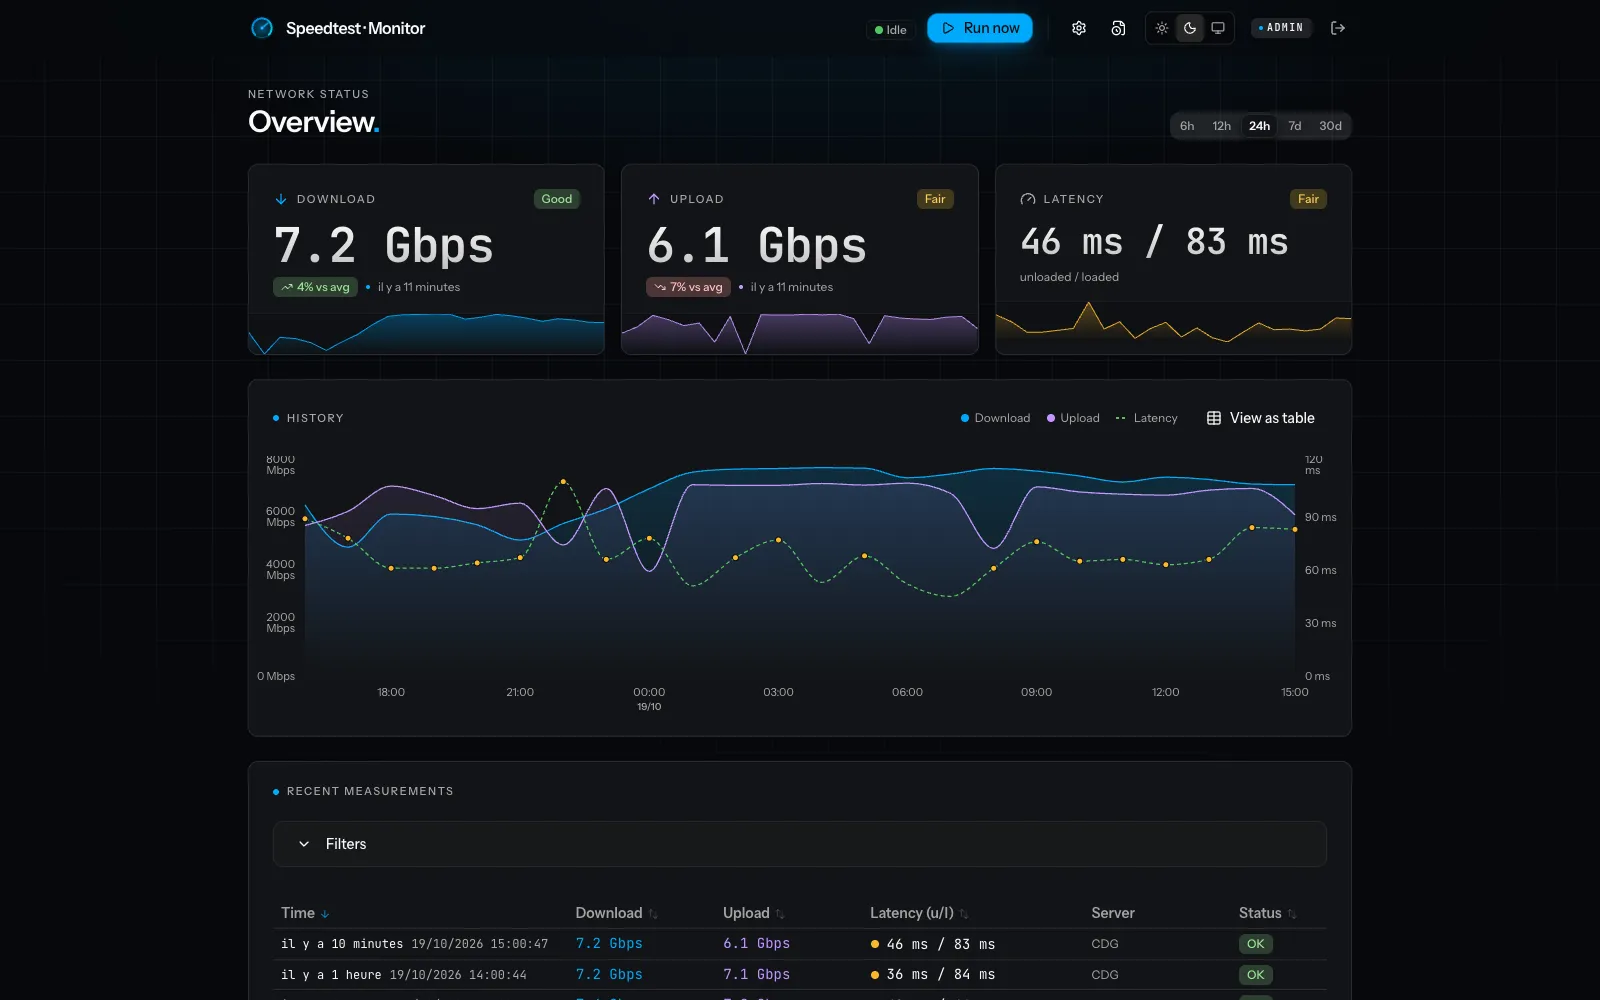
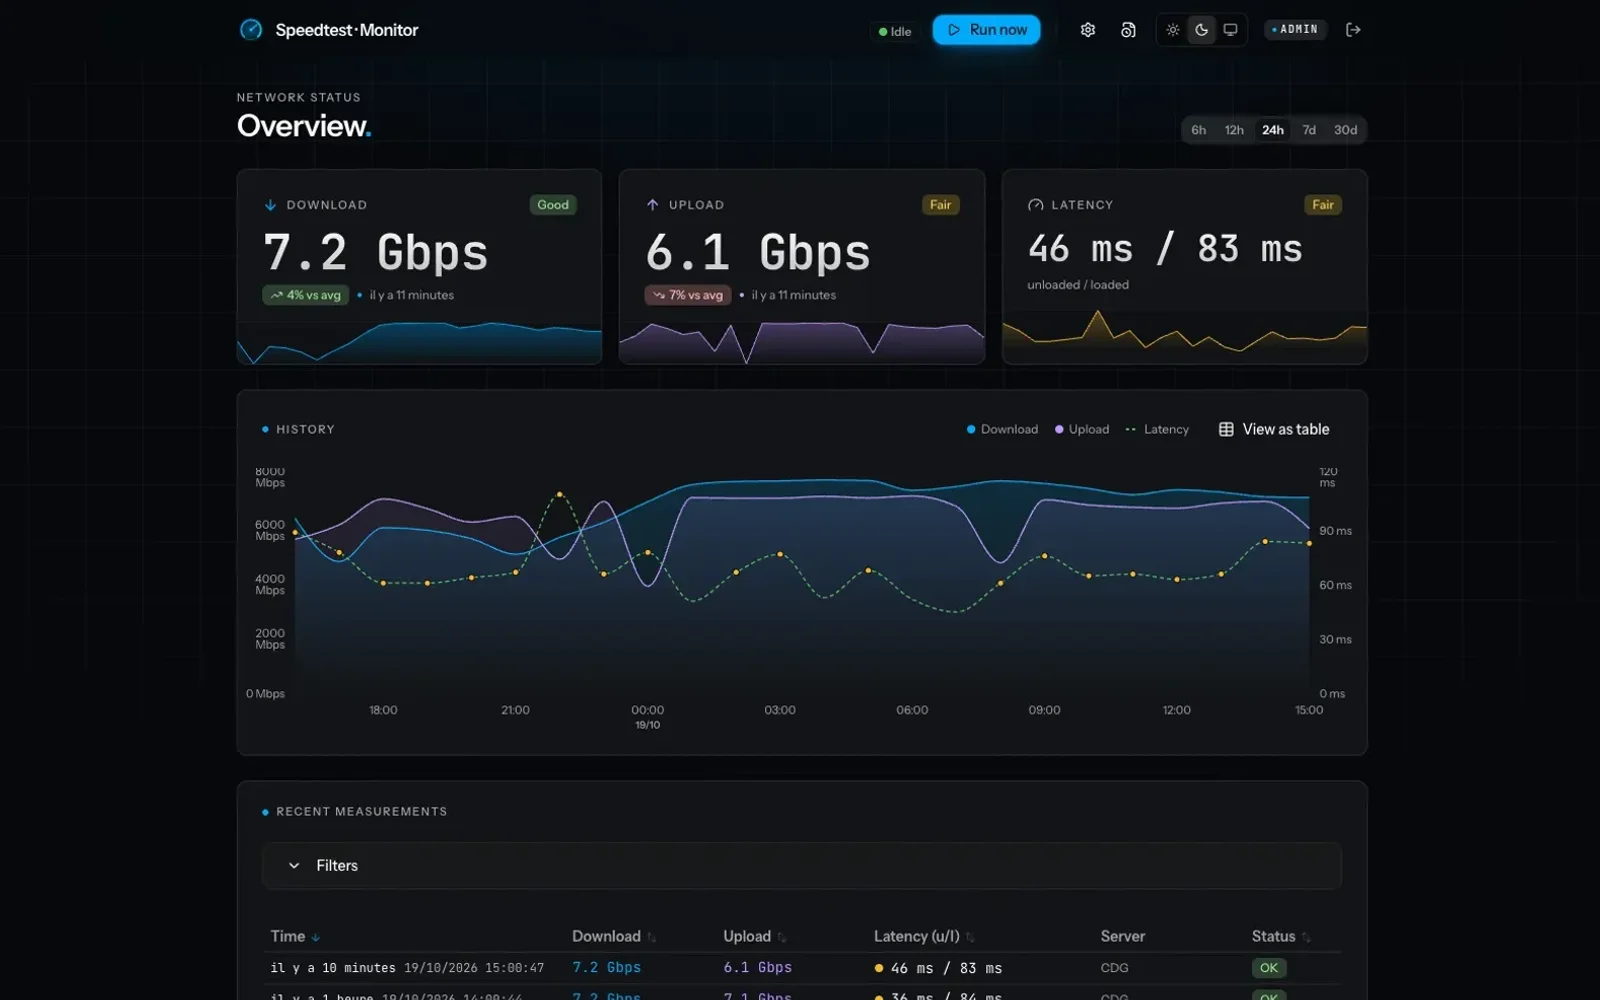
Improve - #PRT-NoId - Preload single-theme covers, gallery sizes, recrop Speedtest screenshots

diff --git a/app/projets/[slug]/page.tsx b/app/projets/[slug]/page.tsx
@@ -56,19 +56,22 @@ export async function generateMetadata({ params }: PageProps<'/projets/[slug]'>)
   };
 }
 
-/** Pas de `preload` : les deux variantes seraient chargées ; le lazy-loading ne charge que celle du thème actif. */
+/**
+ * Variantes clair/sombre : pas de `preload`, sinon les deux seraient chargées ; le lazy-loading ne charge que
+ * celle du thème actif. Image unique : la couverture peut être préchargée.
+ */
 function ThemedScreenshot({ screenshot, cover = false }: { screenshot: Screenshot; cover?: boolean }) {
   const props = {
     alt: screenshot.alt,
     width: 1600,
     height: 1000,
-    sizes: '(min-width: 90rem) 75rem, 100vw',
+    sizes: cover ? '(min-width: 90rem) 75rem, 100vw' : '(min-width: 90rem) 37rem, (min-width: 64rem) 50vw, 100vw',
     fetchPriority: cover ? ('high' as const) : undefined,
   };
   const className = 'h-auto w-full rounded-2xl border border-border';
 
   if (screenshot.light === screenshot.dark) {
-    return <Image {...props} src={screenshot.light} className={className} />;
+    return <Image {...props} src={screenshot.light} preload={cover} className={className} />;
   }
 
   return (

diff --git a/docs/superpowers/specs/2026-10-19-pages-projets-design.md b/docs/superpowers/specs/2026-10-19-pages-projets-design.md
@@ -79,7 +79,7 @@ Ordre des blocs :
 1. `Navigation` partagée, `ScrollProgress`.
 2. Fil d'Ariane visible `<nav aria-label="Fil d'Ariane">` : « Accueil › <nom> », identique au JSON-LD.
 3. En-tête : `h1` nom, pitch, tags (style des cartes), CTA « Voir sur GitHub » (nouvel onglet), bloc GitHub discret (release, étoiles, licence, date de mise à jour en format FR) masqué si `null`.
-4. Visuel principal : première capture en 16:10 via `next/image` `priority`, version claire/sombre basculée en CSS (`dark:hidden` / `hidden dark:block`, variante `dark` basée sur `data-theme`). Sans capture : `codeSample` dans un `<pre>` monospace aux couleurs du site, sans coloration syntaxique.
+4. Visuel principal : première capture en 16:10 via `next/image`, version claire/sombre basculée en CSS (`dark:hidden` / `hidden dark:block`, variante `dark` basée sur `data-theme`). Avec deux variantes, pas de `preload` (les deux seraient téléchargées) : lazy-loading + `fetchPriority="high"`, conformément à la doc Next (`image.md`, « Theme detection ») ; image unique (`light === dark`) : `preload`. Sans capture : `codeSample` dans un `<pre>` monospace aux couleurs du site, sans coloration syntaxique.
 5. « Points forts » : grille 2 colonnes (1 en mobile), cartes au style existant (`rounded-2xl`, `border-border`).
 6. Galerie : captures suivantes, si plus d'une.
 7. Lien « Installation et documentation » vers le README du dépôt.
@@ -110,7 +110,7 @@ Réutilise `Navigation`, `Footer`, `Reveal`, `ScrollProgress` et les jetons de `
 ## Captures
 
 - Prises pendant l'implémentation, navigateur piloté, l'utilisateur se connectant lui-même aux interfaces protégées ; aucun identifiant échangé ni commité.
-- WebP 16:10, versions claire et sombre, dans `public/projets/<slug>/`.
+- WebP 16:10 dans `public/projets/<slug>/`, versions claire et sombre quand l'outil propose les deux sans toucher aux réglages de l'utilisateur ; sinon une seule image (`light === dark`). Unraid et Home Assistant : une seule version, changer leur thème modifierait la configuration des serveurs.
 - Dépôt public : chaque image est contrôlée avant commit. Aucun nom de machine, IP privée, domaine interne, nom de conteneur tiers ni prénom ; recadrage ou masquage sinon, signalé à l'utilisateur.
 - Projets sans interface : `codeSample` tiré de la configuration ou des logs, valeurs réelles remplacées par des valeurs neutres (ex. `app-db`).
 

diff --git a/docs/superpowers/plans/2026-10-19-pages-projets.md b/docs/superpowers/plans/2026-10-19-pages-projets.md
@@ -141,7 +141,7 @@ git commit -m "Improve - #PRT-NoId - Add GitHub repo stats fetcher"
 - `export const dynamicParams = false;` `generateStaticParams` → `projects.map(({ slug }) => ({ slug }))`.
 - `generateMetadata(props: PageProps<'/projets/[slug]'>)` selon la spec (section SEO) : `title`, `description`, `alternates.canonical: '/projets/<slug>'`, `openGraph` complet (`type: 'website'`, `siteName: 'Gauthier Painteaux'`, `locale: 'fr_FR'`, `url`, `title`, `description`, `images`), `twitter` complet (`summary_large_image` + `screenshots[0].light` si capture, sinon `summary` + `/photo.webp`).
 - Page : `getProject` sinon `notFound()` ; `getRepoStats(project.repoUrl)`. Structure et ordre des blocs = spec, section « Page projet » (fil d'Ariane visible « Accueil › <nom> », en-tête, visuel principal, points forts, galerie si `screenshots.length > 1`, lien « Installation et documentation » vers `${repoUrl}#readme`, précédent/suivant via `getAdjacentProjects`). Lien d'évitement « Aller au contenu principal » + `<main id="main">` copiés de `app/page.tsx:59-70`. Réutiliser `Navigation`, `Footer`, `ScrollProgress`, `Reveal`, styles des cartes et tags de `components/Projects.tsx`.
-- Visuel : `next/image` `width={1600} height={1000}` `priority` sur la première capture, version claire `dark:hidden`, sombre `hidden dark:block`. Sans capture : `codeSample` en `<pre><code>` monospace. Sans l'un ni l'autre (état transitoire Task 1-5) : pas de bloc visuel.
+- Visuel : `next/image` `width={1600} height={1000}` sur la première capture, version claire `dark:hidden`, sombre `hidden dark:block` ; pas de `preload` sur les deux variantes (lazy-loading + `fetchPriority="high"`), `preload` seulement pour une image unique. Sans capture : `codeSample` en `<pre><code>` monospace. Sans l'un ni l'autre (état transitoire Task 1-5) : pas de bloc visuel.
 - Bloc GitHub rendu seulement si `stats !== null` ; version seulement si `latestRelease`.
 - Deux `<script type="application/ld+json">` (`SoftwareSourceCode`, `BreadcrumbList` à 2 niveaux, dernier sans `item`) avec le commentaire `biome-ignore` de `app/page.tsx:54`.
 
